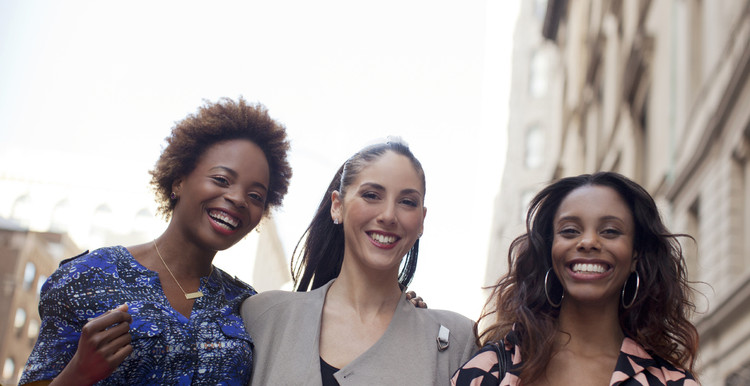
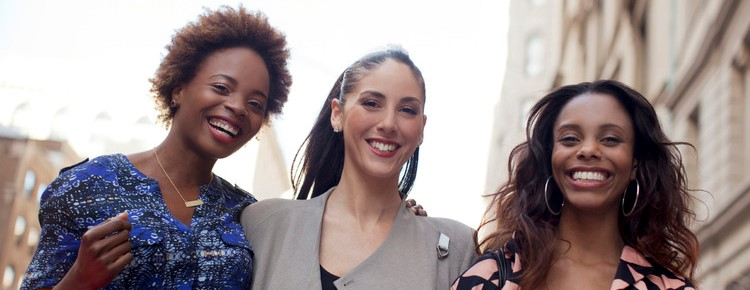
Forgot to tag the "a"

diff --git a/homepage.html b/homepage.html
@@ -34,7 +34,7 @@
          <a class="navbar-brand" href="homepage.html" style="color: #ff118c;">W2W</a>
           <ul class="nav navbar-nav">
             <li><a href="homepage.html">Home</a></li>
-            <li><a href="#about">Success Stories</a></li>
+            <li><a href="#post">Success Stories</a></li>
             <li><a href="https://docs.google.com/forms/d/e/1FAIpQLSehXtBPFcM1hXGM5-ek9dzgv60x3eyBy_QeSDLQEPMMpCjdsw/viewform?usp=sf_link">Contact Us</a></li>         
           </ul> 
 
@@ -58,11 +58,15 @@
       <div class="carousel-inner" role="listbox">
 
         <div class="item active">
-         <a href="#post"> <img class="first-slide" src="img/slide2.jpg" alt="First slide"> </a>
+         <a href="#post"> <img class="first-slide" src="img/womenslide1.jpg" alt="First slide"> </a>
          
         </div>
         <div class="item">
          <a href="#"> <img class="second-slide" src="img/slide1.jpg" alt="Second slide"> </a>  
+        </div>
+
+        <div class="item">
+         <a href="#"> <img class="third-slide" src="img/womenslide1.jpg" alt="Third slide"> </a>  
         </div>
         
       </div>

diff --git a/css/style.css b/css/style.css
@@ -70,21 +70,16 @@ body{font-family: 'Pacifico', cursive;}
   background-color: #777;
   width: auto;
 }
-.carousel-inner > .item > img {
+.carousel-inner > .item > a > img {
   position: absolute;
-  top: 0;
+  top: ;
   left: 0;
   width: 100%;
   height: auto;
   min-width:100%;
+  background-size: cover;
+  background-position: center;
   
-}
-
-.second-slide {
-    background: url(img/slide2.jpg) no-repeat center center fixed; 
-}
-.third-slide {
-    background: url(img/slide3.jpg) no-repeat center center fixed; 
 }
 
 /* BODY CONTENT
